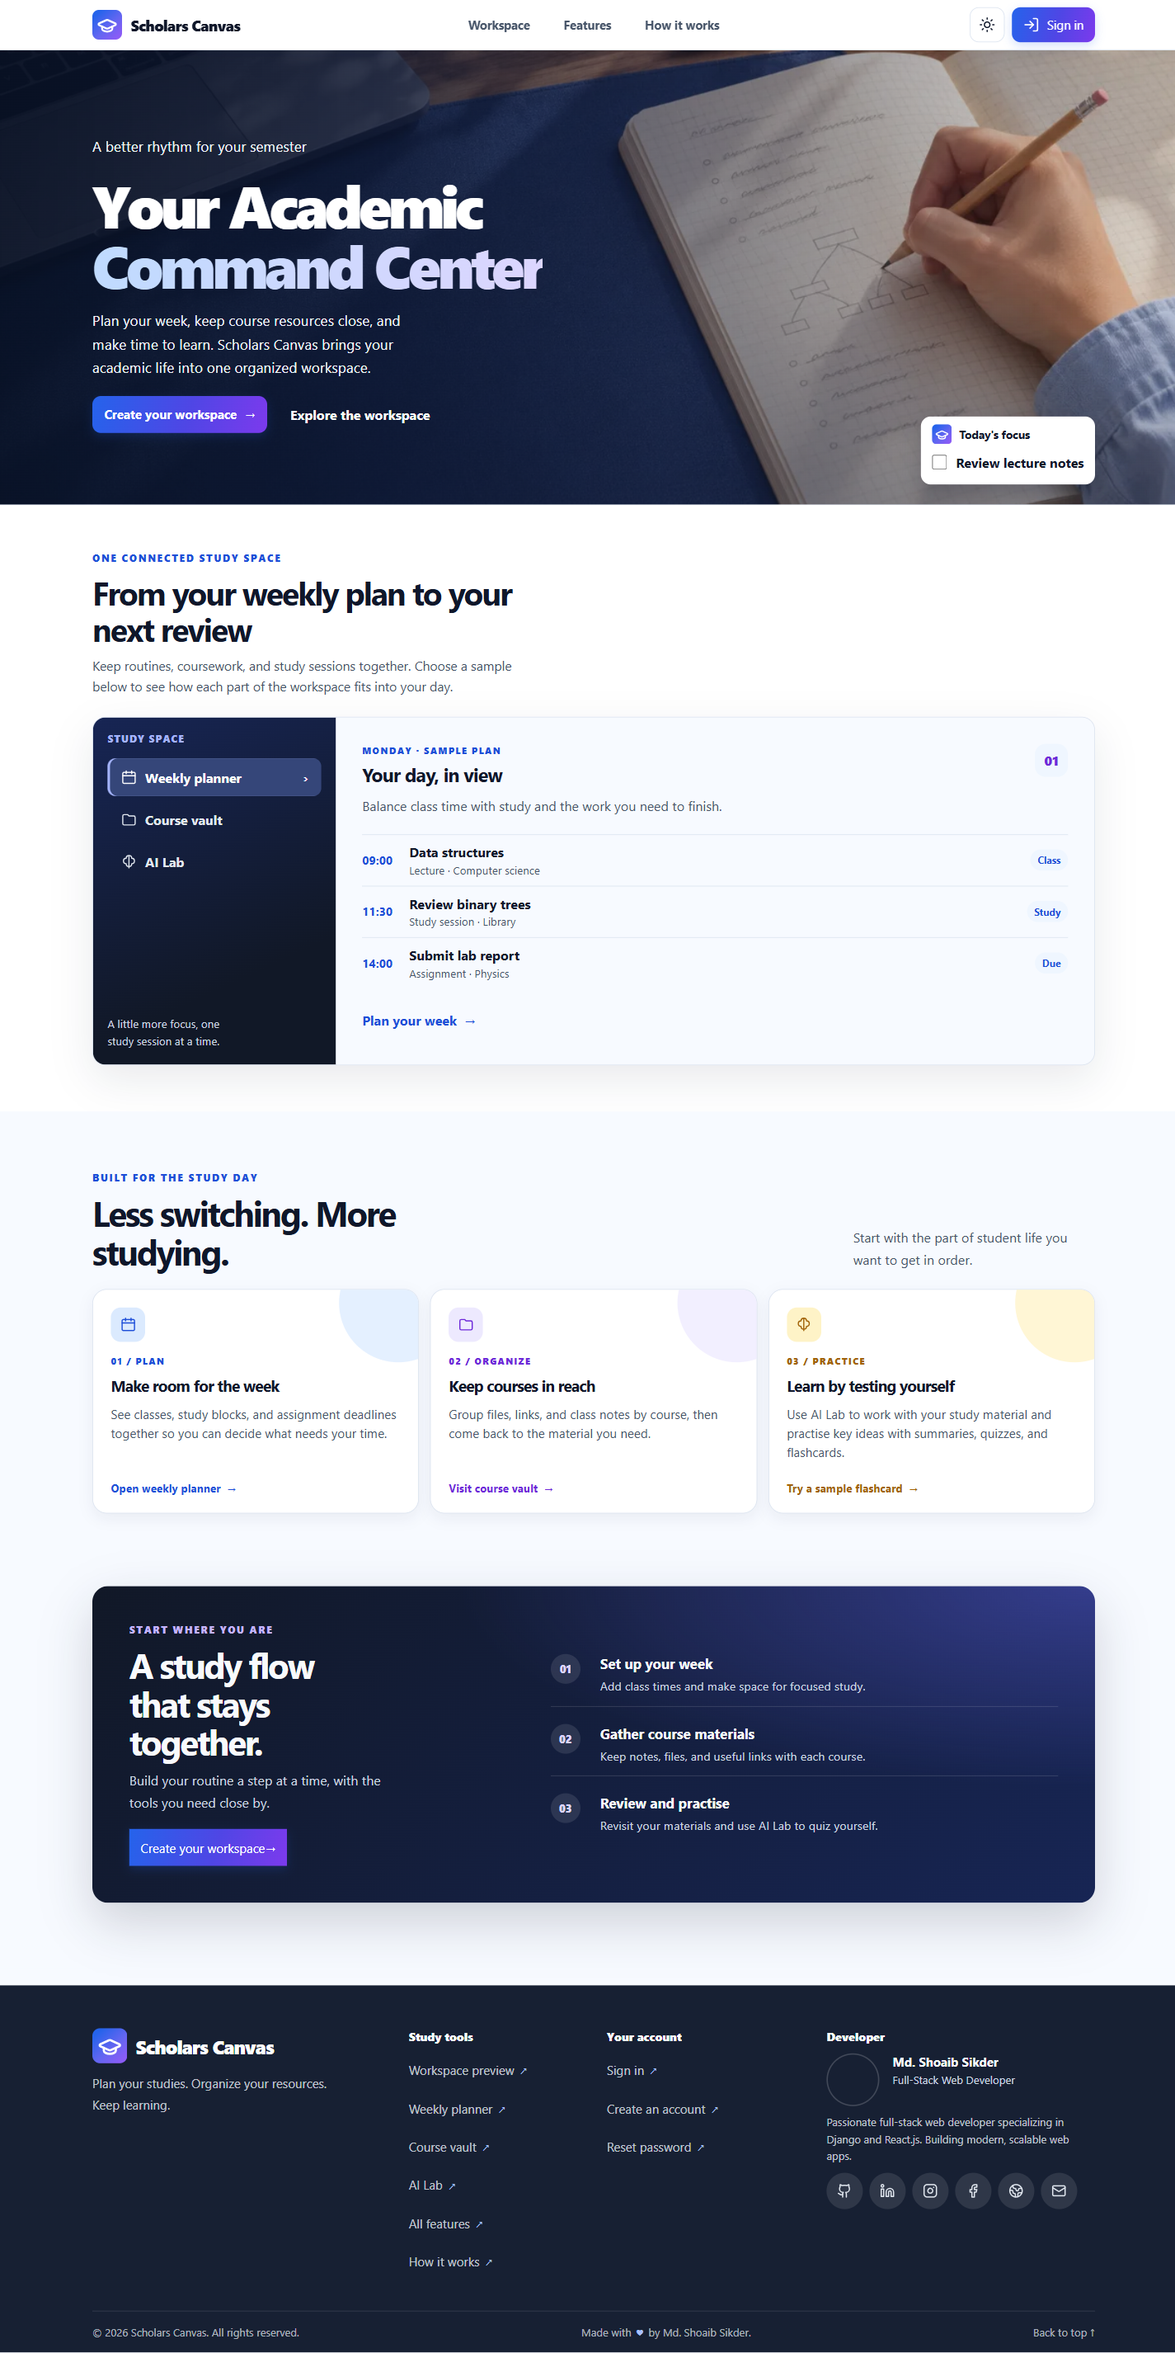
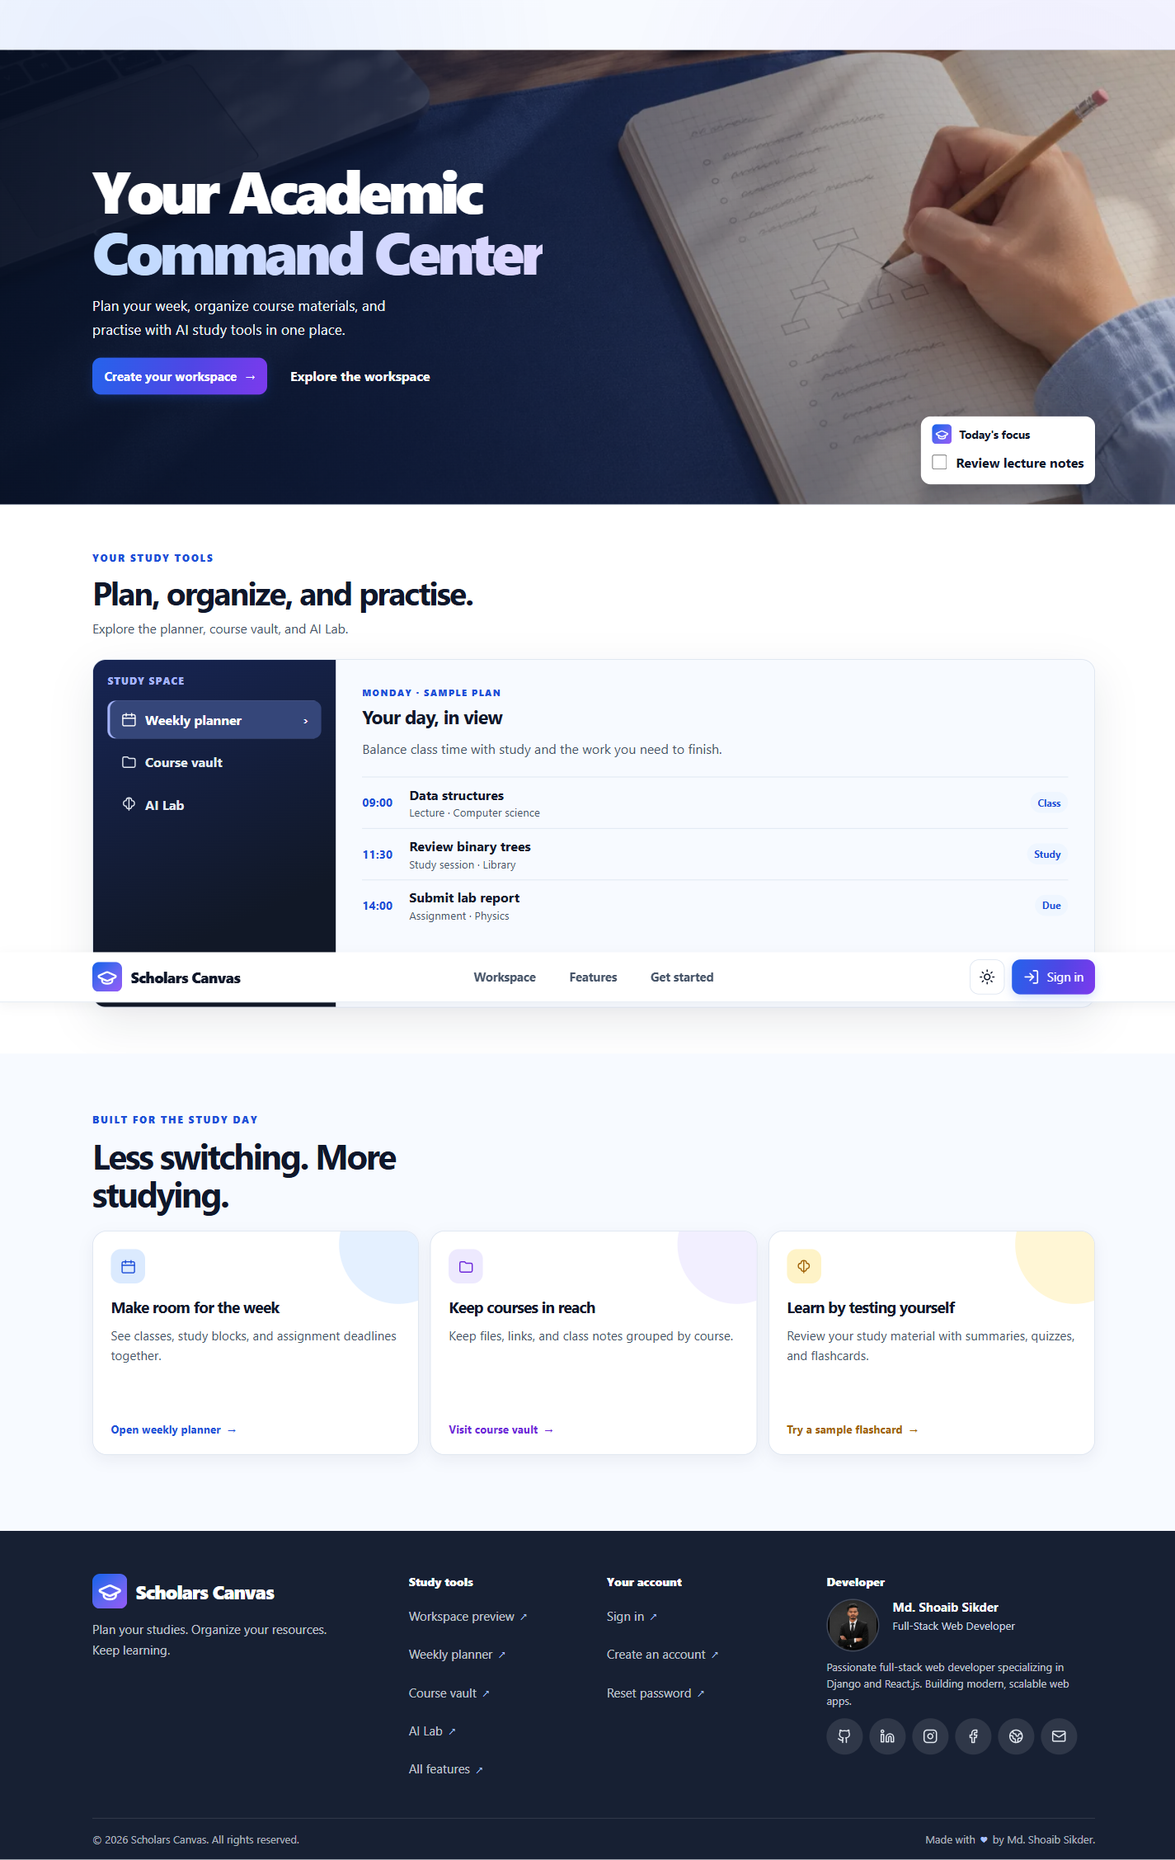
feat: update homepage navigation and improve content clarity

diff --git a/frontend/index.html b/frontend/index.html
@@ -100,7 +100,7 @@
       <nav class="section-nav" aria-label="Homepage sections">
         <a href="#tools">Workspace</a>
         <a href="#features">Features</a>
-        <a href="#how-it-works">How it works</a>
+        <a href="/register">Get started</a>
       </nav>
       <div class="bar-actions">
         <button class="theme-toggle" type="button" aria-label="Switch to dark theme" aria-pressed="false">
@@ -121,9 +121,8 @@
       <img class="desk-photo" src="/study-desk-1200.webp" srcset="/study-desk-640.webp 640w, /study-desk-1200.webp 1200w" sizes="100vw" width="1200" height="900" fetchpriority="high" alt="A student sketching a tree diagram in a notebook beside a laptop">
       <div class="hero-shade" aria-hidden="true"></div>
       <div class="hero-inner wrap">
-        <p class="hero-kicker"><span></span> A better rhythm for your semester</p>
         <h1 id="hero-title">Your Academic<br><span>Command Center</span></h1>
-        <p>Plan your week, keep course resources close, and make time to learn. Scholars Canvas brings your academic life into one organized workspace.</p>
+        <p>Plan your week, organize course materials, and practise with AI study tools in one place.</p>
         <div class="actions">
           <a class="cta" href="/register">Create your workspace <span aria-hidden="true">&rarr;</span></a>
           <a class="demo-link" href="#tools">Explore the workspace</a>
@@ -138,9 +137,9 @@
     <section class="tool-section" id="tools" aria-labelledby="tools-heading">
       <div class="wrap">
         <div class="section-intro">
-          <p class="eyebrow">One connected study space</p>
-          <h2 id="tools-heading">From your weekly plan to your next review</h2>
-          <p>Keep routines, coursework, and study sessions together. Choose a sample below to see how each part of the workspace fits into your day.</p>
+          <p class="eyebrow">Your study tools</p>
+          <h2 id="tools-heading">Plan, organize, and practise.</h2>
+          <p>Explore the planner, course vault, and AI Lab.</p>
         </div>
         <div class="workspace-demo">
           <div class="workspace-rail">
@@ -150,11 +149,10 @@
               <a href="#course-vault"><svg viewBox="0 0 24 24" aria-hidden="true"><path d="M3 7a2 2 0 0 1 2-2h5l2 2h7a2 2 0 0 1 2 2v9a2 2 0 0 1-2 2H5a2 2 0 0 1-2-2z"></path></svg>Course vault</a>
               <a href="#ai-lab"><svg viewBox="0 0 24 24" aria-hidden="true"><path d="M12 3v18M8 7a4 4 0 0 0 0 8m8-8a4 4 0 0 1 0 8M8 7a4 4 0 0 1 8 0m-8 8a4 4 0 0 0 8 0"></path></svg>AI Lab</a>
             </nav>
-            <p class="rail-note">A little more focus, one study session at a time.</p>
           </div>
           <div class="demo-panels">
             <article id="weekly-planner" tabindex="-1">
-              <div class="panel-heading"><div><p class="panel-eyebrow">MONDAY &middot; SAMPLE PLAN</p><h3>Your day, in view</h3></div><span class="panel-mark">01</span></div>
+              <div class="panel-heading"><div><p class="panel-eyebrow">MONDAY &middot; SAMPLE PLAN</p><h3>Your day, in view</h3></div></div>
               <p>Balance class time with study and the work you need to finish.</p>
               <ol class="schedule">
                 <li><time>09:00</time><div><strong>Data structures</strong><small>Lecture &middot; Computer science</small></div><span class="schedule-tag">Class</span></li>
@@ -164,15 +162,15 @@
               <a class="panel-link" href="/register">Plan your week <span aria-hidden="true">&rarr;</span></a>
             </article>
             <article id="course-vault" tabindex="-1">
-              <div class="panel-heading"><div><p class="panel-eyebrow">YOUR COURSE MATERIALS</p><h3>Keep useful notes close</h3></div><span class="panel-mark">02</span></div>
+              <div class="panel-heading"><div><p class="panel-eyebrow">YOUR COURSE MATERIALS</p><h3>Keep useful notes close</h3></div></div>
               <p>Organize class resources by course, then revisit a note when it is time to study.</p>
               <details class="sample-note" open><summary>Data structures <span>Lecture notes &middot; Trees</span></summary>
-                <div class="note-content"><strong>Binary trees</strong><p>Each node has at most two children. A node with no children is called a leaf.</p><span class="note-meta">A quick note from your course vault</span></div>
+                <div class="note-content"><strong>Binary trees</strong><p>Each node has at most two children. A node with no children is called a leaf.</p></div>
               </details>
               <a class="panel-link" href="/register">Organize your courses <span aria-hidden="true">&rarr;</span></a>
             </article>
             <article id="ai-lab" tabindex="-1">
-              <div class="panel-heading"><div><p class="panel-eyebrow">ACTIVE RECALL</p><h3>Turn notes into practice</h3></div><span class="panel-mark">03</span></div>
+              <div class="panel-heading"><div><p class="panel-eyebrow">ACTIVE RECALL</p><h3>Turn notes into practice</h3></div></div>
               <p>Use a flashcard to check what you remember before looking at the answer.</p>
               <div class="flashcard"><span class="flashcard-label">QUICK CHECK</span><strong>How many children can a binary tree node have?</strong>
                 <details><summary>Reveal answer <span aria-hidden="true">+</span></summary><p>At most two &mdash; a left child and a right child.</p></details>
@@ -188,49 +186,30 @@
       <div class="wrap">
         <div class="feature-heading">
           <div><p class="eyebrow">Built for the study day</p><h2 id="features-heading">Less switching. More studying.</h2></div>
-          <p>Start with the part of student life you want to get in order.</p>
         </div>
         <div class="feature-grid">
           <a class="feature-card feature-card--blue" href="#weekly-planner" data-preview="weekly-planner">
             <span class="feature-icon"><svg viewBox="0 0 24 24" aria-hidden="true"><rect x="3" y="5" width="18" height="16" rx="2"></rect><path d="M16 3v4M8 3v4M3 10h18"></path></svg></span>
-            <span class="feature-index">01 / PLAN</span>
             <h3>Make room for the week</h3>
-            <p>See classes, study blocks, and assignment deadlines together so you can decide what needs your time.</p>
+            <p>See classes, study blocks, and assignment deadlines together.</p>
             <span class="feature-action">Open weekly planner <span aria-hidden="true">&rarr;</span></span>
           </a>
           <a class="feature-card feature-card--violet" href="#course-vault" data-preview="course-vault">
             <span class="feature-icon"><svg viewBox="0 0 24 24" aria-hidden="true"><path d="M3 7a2 2 0 0 1 2-2h5l2 2h7a2 2 0 0 1 2 2v9a2 2 0 0 1-2 2H5a2 2 0 0 1-2-2z"></path></svg></span>
-            <span class="feature-index">02 / ORGANIZE</span>
             <h3>Keep courses in reach</h3>
-            <p>Group files, links, and class notes by course, then come back to the material you need.</p>
+            <p>Keep files, links, and class notes grouped by course.</p>
             <span class="feature-action">Visit course vault <span aria-hidden="true">&rarr;</span></span>
           </a>
           <a class="feature-card feature-card--gold" href="#ai-lab" data-preview="ai-lab">
             <span class="feature-icon"><svg viewBox="0 0 24 24" aria-hidden="true"><path d="M12 3v18M8 7a4 4 0 0 0 0 8m8-8a4 4 0 0 1 0 8M8 7a4 4 0 0 1 8 0m-8 8a4 4 0 0 0 8 0"></path></svg></span>
-            <span class="feature-index">03 / PRACTICE</span>
             <h3>Learn by testing yourself</h3>
-            <p>Use AI Lab to work with your study material and practise key ideas with summaries, quizzes, and flashcards.</p>
+            <p>Review your study material with summaries, quizzes, and flashcards.</p>
             <span class="feature-action">Try a sample flashcard <span aria-hidden="true">&rarr;</span></span>
           </a>
         </div>
       </div>
     </section>
 
-    <section class="workflow-section" id="how-it-works" aria-labelledby="workflow-heading">
-      <div class="wrap workflow-card">
-        <div class="workflow-copy">
-          <p class="eyebrow">Start where you are</p>
-          <h2 id="workflow-heading">A study flow that stays together.</h2>
-          <p>Build your routine a step at a time, with the tools you need close by.</p>
-          <a class="cta" href="/register">Create your workspace <span aria-hidden="true">&rarr;</span></a>
-        </div>
-        <ol class="workflow-steps">
-          <li><span>01</span><div><h3>Set up your week</h3><p>Add class times and make space for focused study.</p></div></li>
-          <li><span>02</span><div><h3>Gather course materials</h3><p>Keep notes, files, and useful links with each course.</p></div></li>
-          <li><span>03</span><div><h3>Review and practise</h3><p>Revisit your materials and use AI Lab to quiz yourself.</p></div></li>
-        </ol>
-      </div>
-    </section>
   </main>
     <footer class="site-footer">
     <div class="wrap">
@@ -247,7 +226,7 @@
           <ul>
             <li><a href="#tools">Workspace preview</a></li><li><a href="#weekly-planner">Weekly planner</a></li>
             <li><a href="#course-vault">Course vault</a></li>
-            <li><a href="#ai-lab">AI Lab</a></li><li><a href="#features">All features</a></li><li><a href="#how-it-works">How it works</a></li>
+            <li><a href="#ai-lab">AI Lab</a></li><li><a href="#features">All features</a></li>
           </ul>
         </nav>
         <nav class="footer-col" aria-label="Account">
@@ -281,7 +260,6 @@
       <div class="footer-legal">
         <p>&copy; 2026 Scholars Canvas. All rights reserved.</p>
         <p>Made with <span class="footer-heart" aria-hidden="true">&hearts;</span> by Md. Shoaib Sikder.</p>
-        <a href="#page-top">Back to top <span aria-hidden="true">&uarr;</span></a>
       </div>
     </div>
   </footer>

diff --git a/frontend/src/styles/landing.css b/frontend/src/styles/landing.css
@@ -265,8 +265,6 @@ a.sign:hover, .cta:hover { color: white; filter: brightness(.92) }
   font-size: .8125rem;
 }
 .footer-legal p { margin: 0 }
-.footer-legal a { color: inherit; text-decoration: none }
-.footer-legal a:hover { color: #fff; text-decoration: underline }
 .footer-heart { padding-inline: .15rem; color: #a9c1ff }
 .site-footer :focus-visible { outline-color: #a9c1ff }
 @media (min-width: 40rem) {
@@ -308,11 +306,9 @@ a.sign:hover, .cta:hover { color: white; filter: brightness(.92) }
 .workspace-rail .tool-menu { margin-block: 1rem auto; padding: 0; background: transparent }
 .tool-menu a { gap: .6rem }
 .tool-menu svg, .feature-icon svg { width: 1.25rem; height: 1.25rem; flex: none; fill: none; stroke: currentColor; stroke-width: 1.7; stroke-linecap: round; stroke-linejoin: round }
-.rail-note { max-width: 22ch; color: #cbd5e1; font-size: .83rem; line-height: 1.55 }
 .demo-panels { min-height: 23rem; padding: clamp(1.25rem, 4vw, 2.75rem) }
 .panel-heading { display: flex; align-items: flex-start; justify-content: space-between; gap: 1rem }
 .panel-eyebrow { margin-bottom: .4rem; color: var(--accent); font-size: .7rem; font-weight: 800; letter-spacing: .12em }
-.panel-mark { display: grid; width: 2.5rem; height: 2.5rem; place-items: center; color: var(--violet); background: var(--tint); border-radius: .8rem; font-weight: 800 }
 .demo-panels article > p { max-width: 58ch; margin-top: .65rem }
 .schedule { margin-top: 1.35rem }
 .schedule li { align-items: center; min-height: 4.5rem; gap: clamp(.5rem, 2vw, 1.25rem) }
@@ -324,14 +320,12 @@ a.sign:hover, .cta:hover { color: white; filter: brightness(.92) }
 .sample-note summary span { color: var(--muted); font-size: .8rem; font-weight: 500 }
 .note-content { padding: .5rem .25rem .25rem; line-height: 1.6 }
 .note-content p { margin-top: .3rem; color: var(--muted) }
-.note-meta { display: inline-block; margin-top: .75rem; color: var(--muted); font-size: .78rem }
 .flashcard { display: grid; gap: .85rem; max-width: 36rem; padding: 1.35rem; background: linear-gradient(140deg, var(--surface), var(--tint)); box-shadow: var(--shadow) }
 .flashcard-label { color: var(--violet); font-size: .7rem; font-weight: 850; letter-spacing: .12em }
 .flashcard details { border-top: 1px solid var(--edge); padding-top: .4rem }
 .feature-section { padding-block: clamp(3.5rem, 7vw, 6.5rem); background: var(--canvas) }
 .feature-heading { display: flex; justify-content: space-between; align-items: end; gap: 2rem; margin-bottom: 1.8rem }
-.feature-heading h2, .workflow-copy h2 { max-width: 16ch; font-size: clamp(2rem, 4vw, 3.2rem); line-height: 1.06; letter-spacing: -.055em }
-.feature-heading > p { max-width: 34ch; color: var(--muted); line-height: 1.7 }
+.feature-heading h2 { max-width: 16ch; font-size: clamp(2rem, 4vw, 3.2rem); line-height: 1.06; letter-spacing: -.055em }
 .feature-grid { display: grid; grid-template-columns: repeat(3, minmax(0, 1fr)); gap: 1rem }
 .feature-card { position: relative; display: flex; min-height: 20rem; flex-direction: column; align-items: flex-start; padding: clamp(1.25rem, 2.5vw, 2rem); overflow: hidden; color: var(--ink); background: var(--surface); border: 1px solid var(--edge); border-radius: 1.1rem; box-shadow: var(--shadow); text-decoration: none; transition: transform 180ms ease, box-shadow 180ms ease, border-color 180ms ease }
 .feature-card::after { position: absolute; top: -3.5rem; right: -3rem; width: 9rem; height: 9rem; border-radius: 50%; background: var(--card-glow); content: ""; opacity: .75 }
@@ -343,22 +337,9 @@ a.sign:hover, .cta:hover { color: white; filter: brightness(.92) }
 :root.dark .feature-card--gold { --card-glow: #713f12; --card-accent: #fcd34d }
 .feature-card:hover { color: var(--ink); transform: translateY(-4px); border-color: var(--card-accent); box-shadow: 0 20px 48px rgb(15 23 42 / 12%) }
 .feature-icon { display: grid; width: 3rem; height: 3rem; place-items: center; margin-bottom: 1.35rem; color: var(--card-accent); background: var(--card-glow); border-radius: .9rem }
-.feature-index { margin-bottom: .65rem; color: var(--card-accent); font-size: .69rem; font-weight: 850; letter-spacing: .12em }
 .feature-card h3 { font-size: 1.35rem; letter-spacing: -.035em }
 .feature-card p { margin-top: .65rem; color: var(--muted); font-size: .93rem; line-height: 1.65 }
 .feature-action { display: flex; align-items: center; gap: .45rem; margin-top: auto; padding-top: 1.35rem; color: var(--card-accent); font-size: .88rem; font-weight: 750 }
-.workflow-section { padding-block: clamp(2rem, 4vw, 3.5rem) clamp(4rem, 8vw, 7rem); background: var(--canvas) }
-.workflow-card { display: grid; grid-template-columns: minmax(0, .85fr) minmax(0, 1.15fr); gap: clamp(2rem, 6vw, 5rem); padding: clamp(1.5rem, 5vw, 4rem); color: #f8fafc; background: radial-gradient(ellipse at 100% 0, rgb(99 102 241 / 40%), transparent 45%), linear-gradient(135deg, #111827, #172554); border-radius: 1.5rem; box-shadow: 0 24px 60px rgb(15 23 42 / 18%) }
-.workflow-copy .eyebrow { color: #c4b5fd }
-.workflow-copy h2 { max-width: 12ch }
-.workflow-copy > p:not(.eyebrow) { max-width: 36ch; margin-top: .85rem; color: #cbd5e1; line-height: 1.7 }
-.workflow-copy .cta { display: inline-flex; align-items: center; min-height: 48px; margin-top: 1.5rem; text-decoration: none }
-.workflow-steps { display: grid; align-content: center; gap: .5rem; margin: 0; padding: 0; list-style: none }
-.workflow-steps li { display: grid; grid-template-columns: 2.75rem 1fr; align-items: start; gap: 1rem; padding: 1.1rem 0; border-bottom: 1px solid rgb(255 255 255 / 16%) }
-.workflow-steps li:last-child { border-bottom: 0 }
-.workflow-steps li > span { display: grid; width: 2.5rem; height: 2.5rem; place-items: center; color: #ddd6fe; background: rgb(255 255 255 / 10%); border-radius: 50%; font-size: .8rem; font-weight: 800 }
-.workflow-steps h3 { font-size: 1.05rem }
-.workflow-steps p { margin-top: .35rem; color: #cbd5e1; font-size: .9rem; line-height: 1.55 }
 section[id] { scroll-margin-top: 1.25rem }
 @media (max-width: 54rem) {
   .bar { grid-template-columns: 1fr auto; padding-block: .45rem }
@@ -367,7 +348,6 @@ section[id] { scroll-margin-top: 1.25rem }
   .bar-actions { grid-column: 2; grid-row: 1 }
   .feature-grid { grid-template-columns: 1fr 1fr }
   .feature-card:last-child { grid-column: 1 / -1; min-height: 17rem }
-  .workflow-card { grid-template-columns: 1fr; gap: 2rem }
 }
 @media (max-width: 39rem) {
   .wrap { width: min(100% - 1.25rem, 76rem) }
@@ -379,18 +359,15 @@ section[id] { scroll-margin-top: 1.25rem }
   .theme-toggle { width: 2.55rem; height: 2.55rem }
   .section-nav a { min-height: 42px; font-size: .78rem }
   .hero h1 { font-size: clamp(2.5rem, 10.5vw, 3.5rem) }
-  .hero-kicker { font-size: .78rem }
   .hero-inner { padding-block: 3rem 6rem }
   .focus-slip { max-width: calc(100% - 2rem) }
   .feature-heading { display: block }
-  .feature-heading > p { margin-top: .8rem }
   .feature-grid { grid-template-columns: 1fr }
   .feature-card, .feature-card:last-child { grid-column: auto; min-height: 17rem }
   .schedule li { gap: .6rem }
   .schedule time { font-size: .78rem }
   .schedule-tag { padding: .25rem .4rem; font-size: .68rem }
   .sample-note summary { align-items: flex-start; flex-direction: column }
-  .workflow-card { border-radius: 1rem }
 }
 @media (prefers-reduced-motion: reduce) {
   *, *::before, *::after { scroll-behavior: auto !important; animation-duration: .01ms !important; animation-iteration-count: 1 !important; transition-duration: .01ms !important }
@@ -425,19 +402,13 @@ section[id] { scroll-margin-top: 1.25rem }
 .schedule li { min-height: 3.9rem; padding-block: .5rem }
 .feature-section { padding-block: clamp(2.75rem, 5vw, 4.5rem) }
 .feature-heading { margin-bottom: 1.4rem }
-.feature-heading h2, .workflow-copy h2 { font-size: clamp(1.8rem, 3.4vw, 2.65rem); line-height: 1.1 }
+.feature-heading h2 { font-size: clamp(1.8rem, 3.4vw, 2.65rem); line-height: 1.1 }
 .feature-grid { gap: .85rem }
 .feature-card, .feature-card:last-child { min-height: 17rem; padding: 1.35rem }
 .feature-icon { width: 2.6rem; height: 2.6rem; margin-bottom: 1rem; border-radius: .75rem }
 .feature-card h3 { font-size: 1.18rem }
 .feature-card p { font-size: .95rem; line-height: 1.55 }
 .feature-action { padding-top: 1rem; font-size: .84rem }
-.workflow-section { padding-block: 1rem clamp(3rem, 6vw, 5rem) }
-.workflow-card { gap: clamp(1.5rem, 4vw, 3.5rem); padding: clamp(1.4rem, 3.5vw, 2.8rem); border-radius: 1.2rem }
-.workflow-copy > p:not(.eyebrow) { margin-top: .65rem }
-.workflow-copy .cta { min-height: 2.8rem; margin-top: 1.15rem; padding: .55rem .85rem; font-size: .94rem }
-.workflow-steps li { padding-block: .8rem }
-.workflow-steps li > span { width: 2.25rem; height: 2.25rem }
 .site-footer { margin-top: 1.25rem; padding-top: 1.25rem }
 section[id] { scroll-margin-top: 5rem }
 @media (max-width: 54rem) {
@@ -459,8 +430,5 @@ section[id] { scroll-margin-top: 5rem }
   .tool-section h2 { font-size: clamp(1.65rem, 7vw, 2.1rem) }
   .feature-section { padding-block: 2.5rem }
   .feature-card, .feature-card:last-child { min-height: 15.5rem; padding: 1.15rem }
-  .workflow-card { padding: 1.25rem; gap: 1.25rem }
-  .workflow-copy h2 { font-size: clamp(1.75rem, 7vw, 2.2rem) }
-  .workflow-steps li { grid-template-columns: 2.4rem minmax(0, 1fr); gap: .75rem }
   section[id] { scroll-margin-top: 7.25rem }
 }
